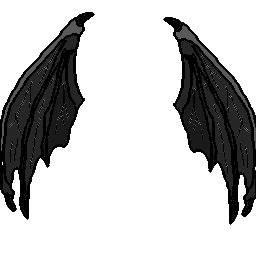
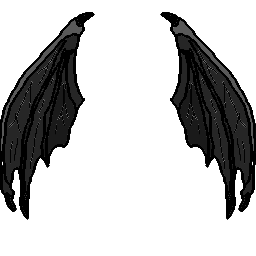
h

Changed region(s): [[0.625, 0.0312, 1.0, 0.875]]

diff --git a/docs/assets/acc/acc.md b/docs/assets/acc/acc.md
@@ -21,9 +21,10 @@ acc_1:bunny_ear
 acc_16:horn_hat
 acc_17: plant_pot
 acc_28:bowtie
+acc_18:clover
 LEGENDARY
 acc_9:conical_hat 
-acc_18:clover
+acc_30:mask
 acc_19:angel
 acc_24:gladiator_helmet
 acc_25:small_angelwing
